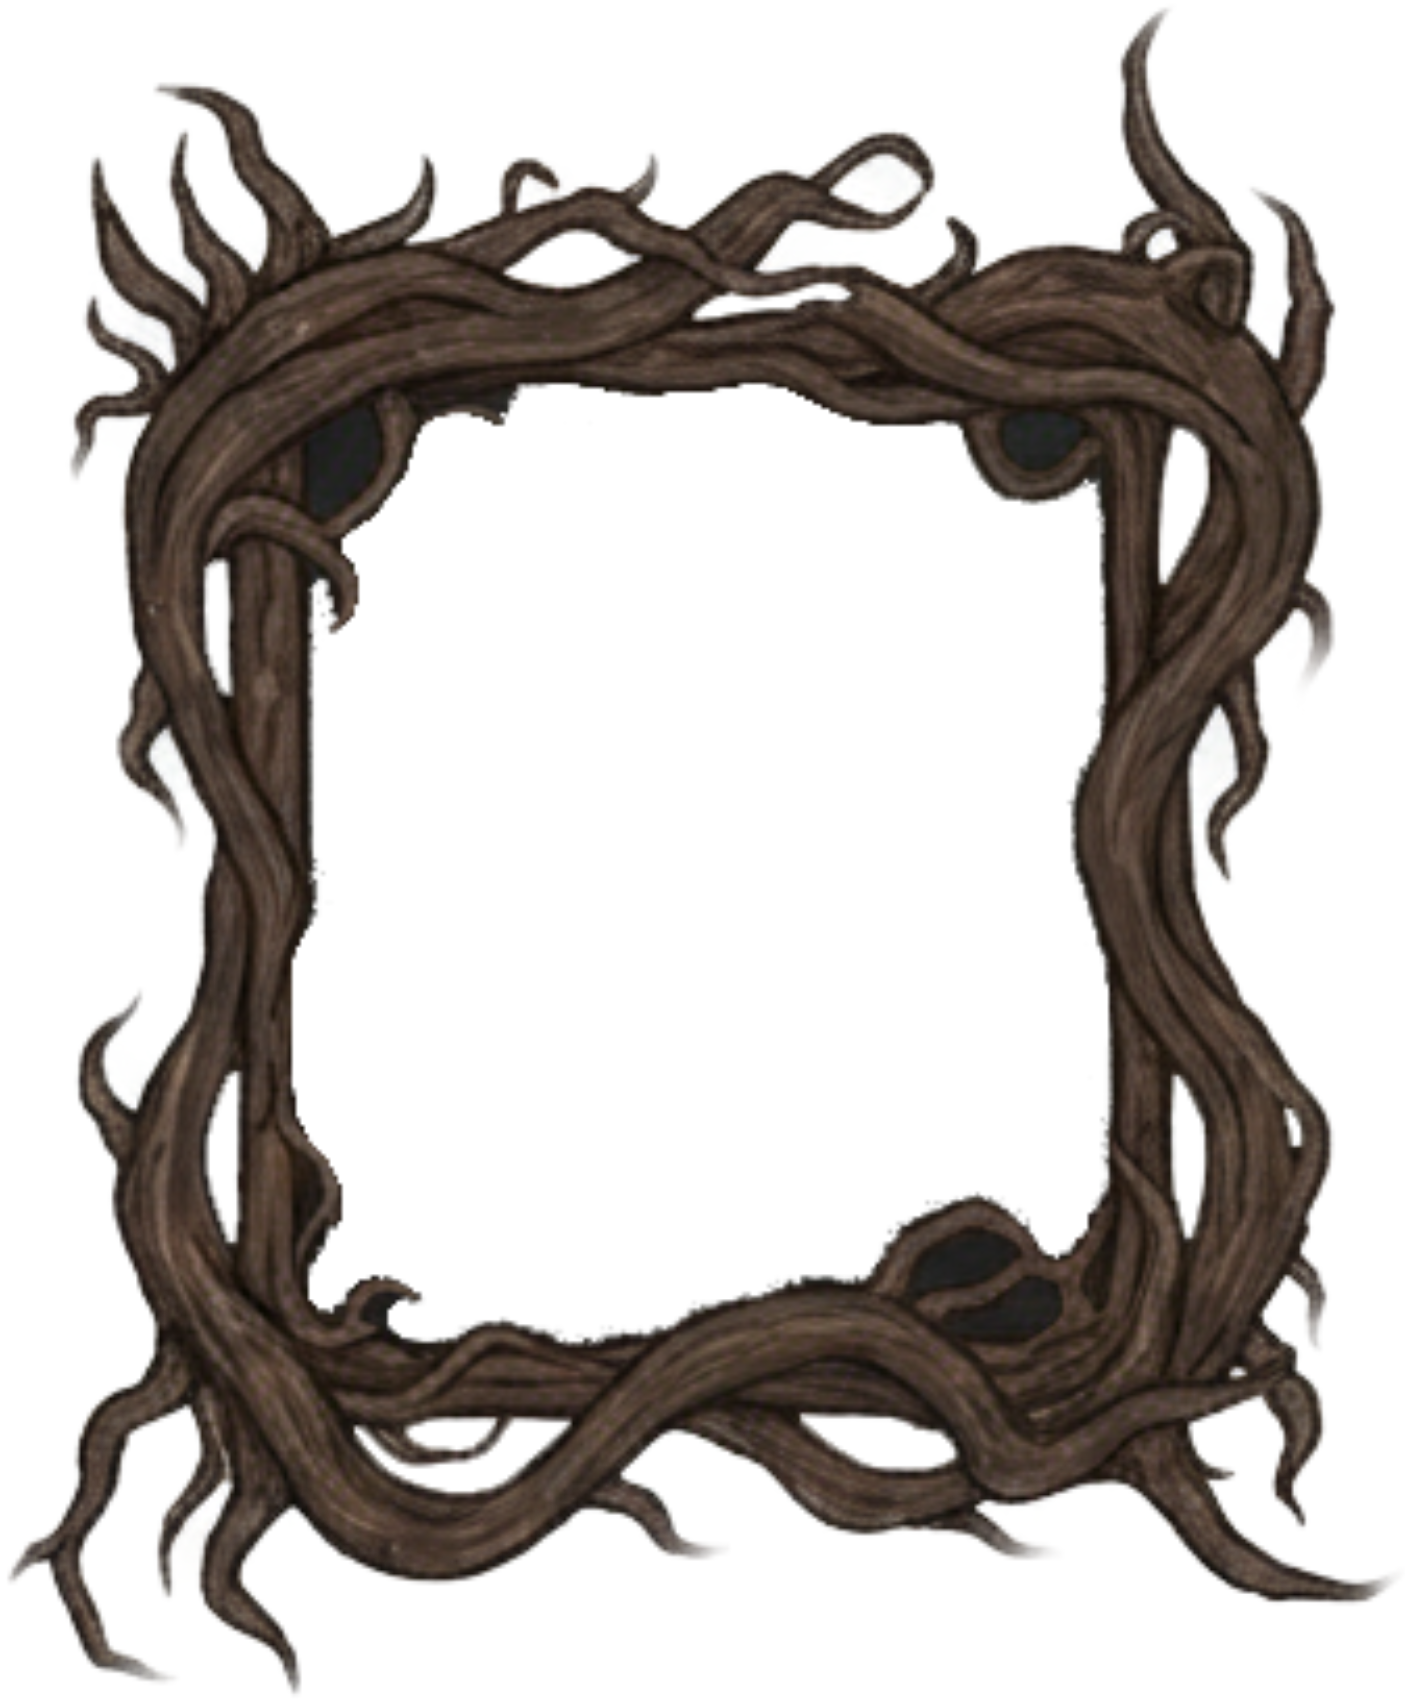
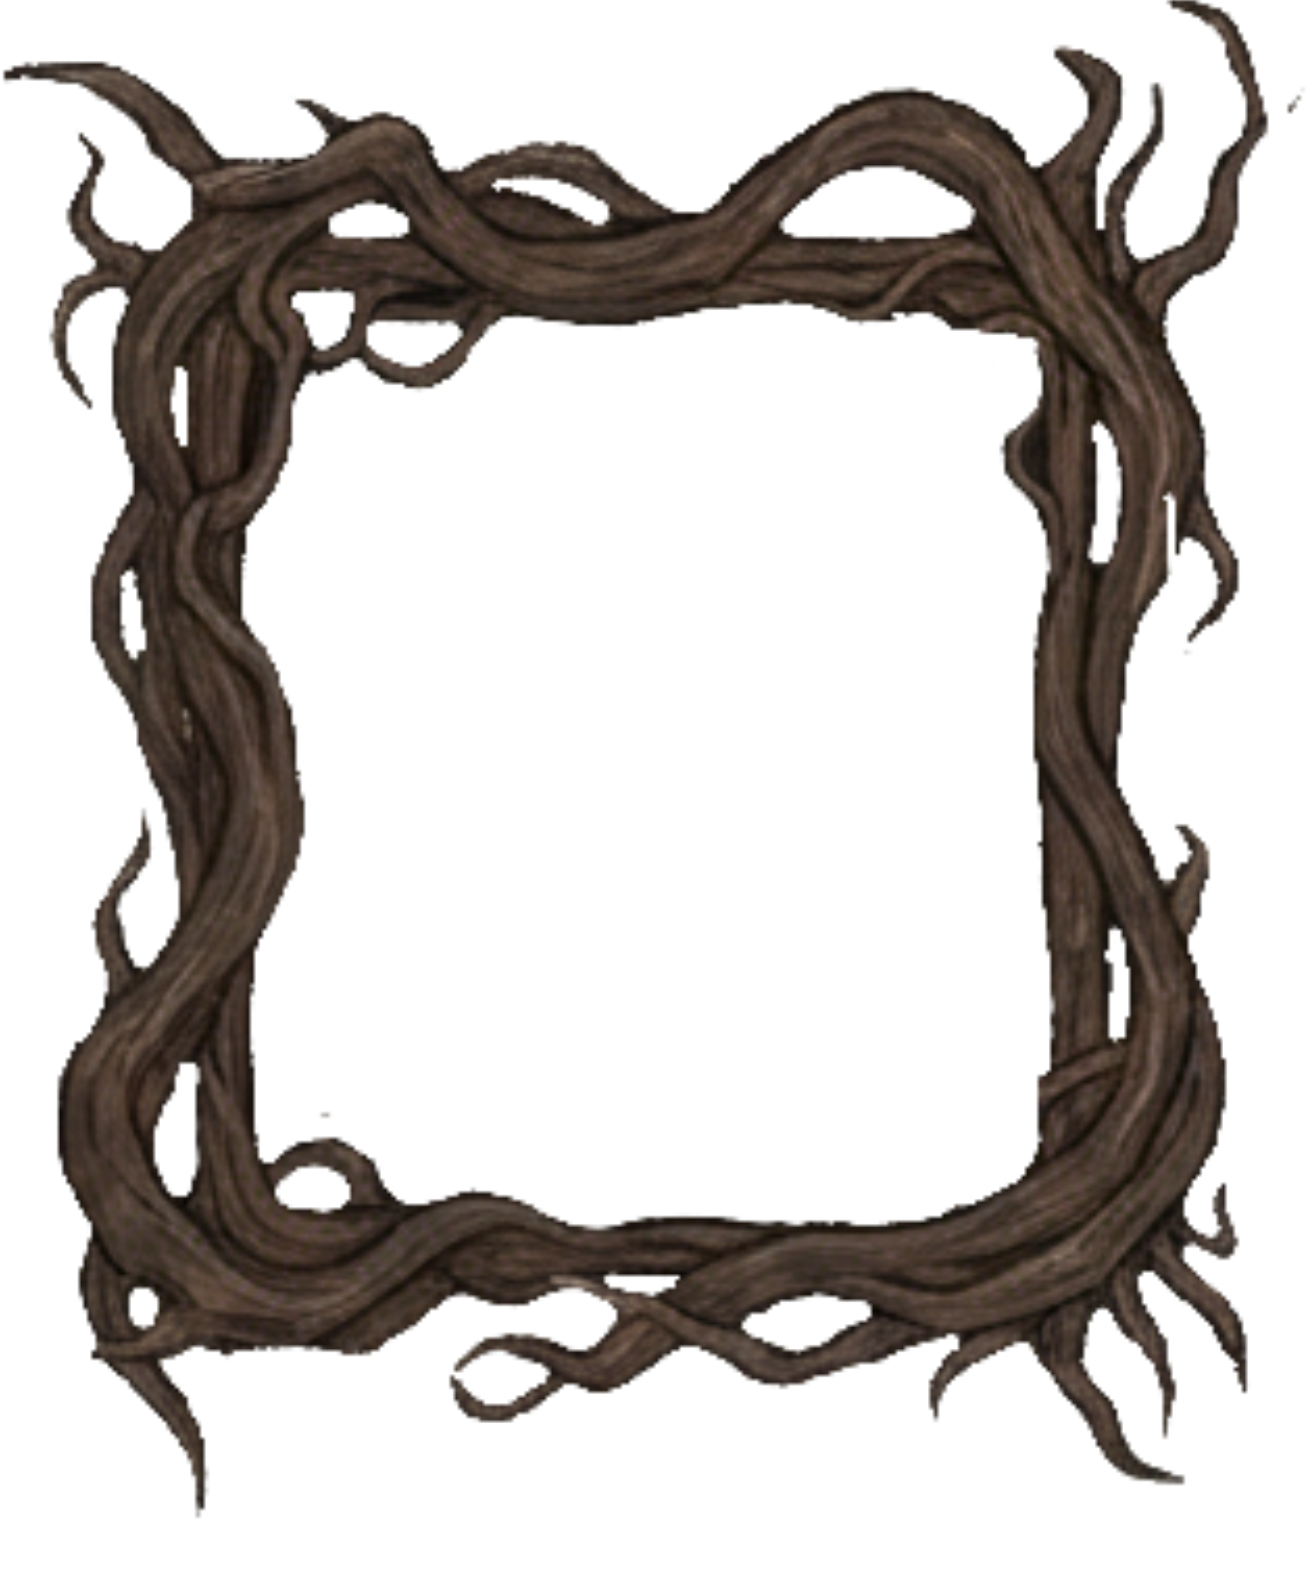
Window Style Changes and Graphic Resource Updates
The window style has been changed to full-screen without a border, and the MainWindow.xaml layout has been rebuilt to better accommodate the new view. The project file has been updated, correctly marking image files as resources and adding new graphics. The border.png file has also been replaced with a newer version.

diff --git a/MainWindow.xaml b/MainWindow.xaml
@@ -5,25 +5,32 @@
         xmlns:mc="http://schemas.openxmlformats.org/markup-compatibility/2006"
         xmlns:local="clr-namespace:GuessWho"
         mc:Ignorable="d"
-        Title="MainWindow" Height="1080" Width="1980">
+        Title="MainWindow" 
+        WindowStyle="None"
+        ResizeMode="NoResize"
+        WindowState="Maximized">
 
     <Window.Background>
         <ImageBrush ImageSource="/assets/bg.png" Stretch="UniformToFill"/>
     </Window.Background>
 
     <Grid>
-        <Image HorizontalAlignment="Left" Height="385" Margin="772,0,0,0" VerticalAlignment="Top" Width="468" Source="/assets/baners/selectCharacter.png"/>
-        <Image HorizontalAlignment="Left" Height="378" Margin="664,151,0,0" VerticalAlignment="Top" Width="324" Source="/assets/images/border.png" Stretch="UniformToFill"/>
-        <Image HorizontalAlignment="Left" Height="377" Margin="988,146,0,0" VerticalAlignment="Top" Width="324" Source="/assets/images/border.png" Stretch="UniformToFill"/>
-        <Image HorizontalAlignment="Left" Height="378" Margin="340,151,0,0" VerticalAlignment="Top" Width="324" Source="/assets/images/border.png" Stretch="UniformToFill"/>
-        <Image HorizontalAlignment="Left" Height="377" Margin="16,146,0,0" VerticalAlignment="Top" Width="324" Source="/assets/images/border.png" Stretch="UniformToFill"/>
-        <Image HorizontalAlignment="Left" Height="377" Margin="1312,146,0,0" VerticalAlignment="Top" Width="324" Source="/assets/images/border.png" Stretch="UniformToFill"/>
-        <Image HorizontalAlignment="Left" Height="378" Margin="1641,146,0,0" VerticalAlignment="Top" Width="324" Source="/assets/images/border.png" Stretch="UniformToFill"/>
-        <Image HorizontalAlignment="Left" Height="378" Margin="454,532,0,0" VerticalAlignment="Top" Width="324" Source="/assets/images/border.png" Stretch="UniformToFill"/>
-        <Image HorizontalAlignment="Left" Height="377" Margin="778,527,0,0" VerticalAlignment="Top" Width="324" Source="/assets/images/border.png" Stretch="UniformToFill"/>
-        <Image HorizontalAlignment="Left" Height="378" Margin="130,532,0,0" VerticalAlignment="Top" Width="324" Source="/assets/images/border.png" Stretch="UniformToFill"/>
-        <Image HorizontalAlignment="Left" Height="377" Margin="1102,527,0,0" VerticalAlignment="Top" Width="324" Source="/assets/images/border.png" Stretch="UniformToFill"/>
-        <Image HorizontalAlignment="Left" Height="378" Margin="1431,527,0,0" VerticalAlignment="Top" Width="324" Source="/assets/images/border.png" Stretch="UniformToFill"/>
-        <Image HorizontalAlignment="Left" Height="102" Margin="895,925,0,0" VerticalAlignment="Top" Width="248" Source="/assets/btns/play.png"/>
+        <Image HorizontalAlignment="Center" Height="254" VerticalAlignment="Center" Width="532" Source="/assets/baners/logo.png" Stretch="Fill" Margin="-38,-1133,0,0"/>
+
+        <Image HorizontalAlignment="Center" Height="150" Margin="0,-702,0,30" VerticalAlignment="Center" Width="468" Source="/assets/baners/selectCharacter.png"/>
+
+        <Image HorizontalAlignment="Center" Height="300" VerticalAlignment="Center" Width="250" Source="/assets/images/border.png" Stretch="UniformToFill" Margin="-1250,-210,0,0"/>
+        <Image HorizontalAlignment="Center" Height="300" VerticalAlignment="Center" Width="250" Source="/assets/images/border.png" Stretch="UniformToFill" Margin="-750,-210,0,0"/>
+        <Image HorizontalAlignment="Center" Height="300" VerticalAlignment="Center" Width="250" Source="/assets/images/border.png" Stretch="UniformToFill" Margin="-250,-210,0,0"/>
+        <Image HorizontalAlignment="Center" Height="300" VerticalAlignment="Center" Width="250" Source="/assets/images/border.png" Stretch="UniformToFill" Margin="250,-210,0,0"/>
+        <Image HorizontalAlignment="Center" Height="300" VerticalAlignment="Center" Width="250" Source="/assets/images/border.png" Stretch="UniformToFill" Margin="750,-210,0,0"/>
+        <Image HorizontalAlignment="Center" Height="300" VerticalAlignment="Center" Width="250" Source="/assets/images/border.png" Stretch="UniformToFill" Margin="1250,-210,0,0"/>
+        <Image HorizontalAlignment="Center" Height="300" VerticalAlignment="Center" Width="250" Source="/assets/images/border.png" Stretch="UniformToFill" Margin="-1010,410,0,0"/>
+        <Image HorizontalAlignment="Center" Height="300" VerticalAlignment="Center" Width="250" Source="/assets/images/border.png" Stretch="UniformToFill" Margin="-500,410,0,0"/>
+        <Image HorizontalAlignment="Center" Height="300" VerticalAlignment="Center" Width="250" Source="/assets/images/border.png" Stretch="UniformToFill" Margin="0,410,0,0"/>
+        <Image HorizontalAlignment="Center" Height="300" VerticalAlignment="Center" Width="250" Source="/assets/images/border.png" Stretch="UniformToFill" Margin="500,410,0,0"/>
+        <Image HorizontalAlignment="Center" Height="300" VerticalAlignment="Center" Width="250" Source="/assets/images/border.png" Stretch="UniformToFill" Margin="1010,410,0,0"/>
+
+        <Image HorizontalAlignment="Center" Height="102" Margin="0,900,0,30" VerticalAlignment="Center" Width="216" Source="/assets/btns/play.png"/>
     </Grid>
 </Window>
